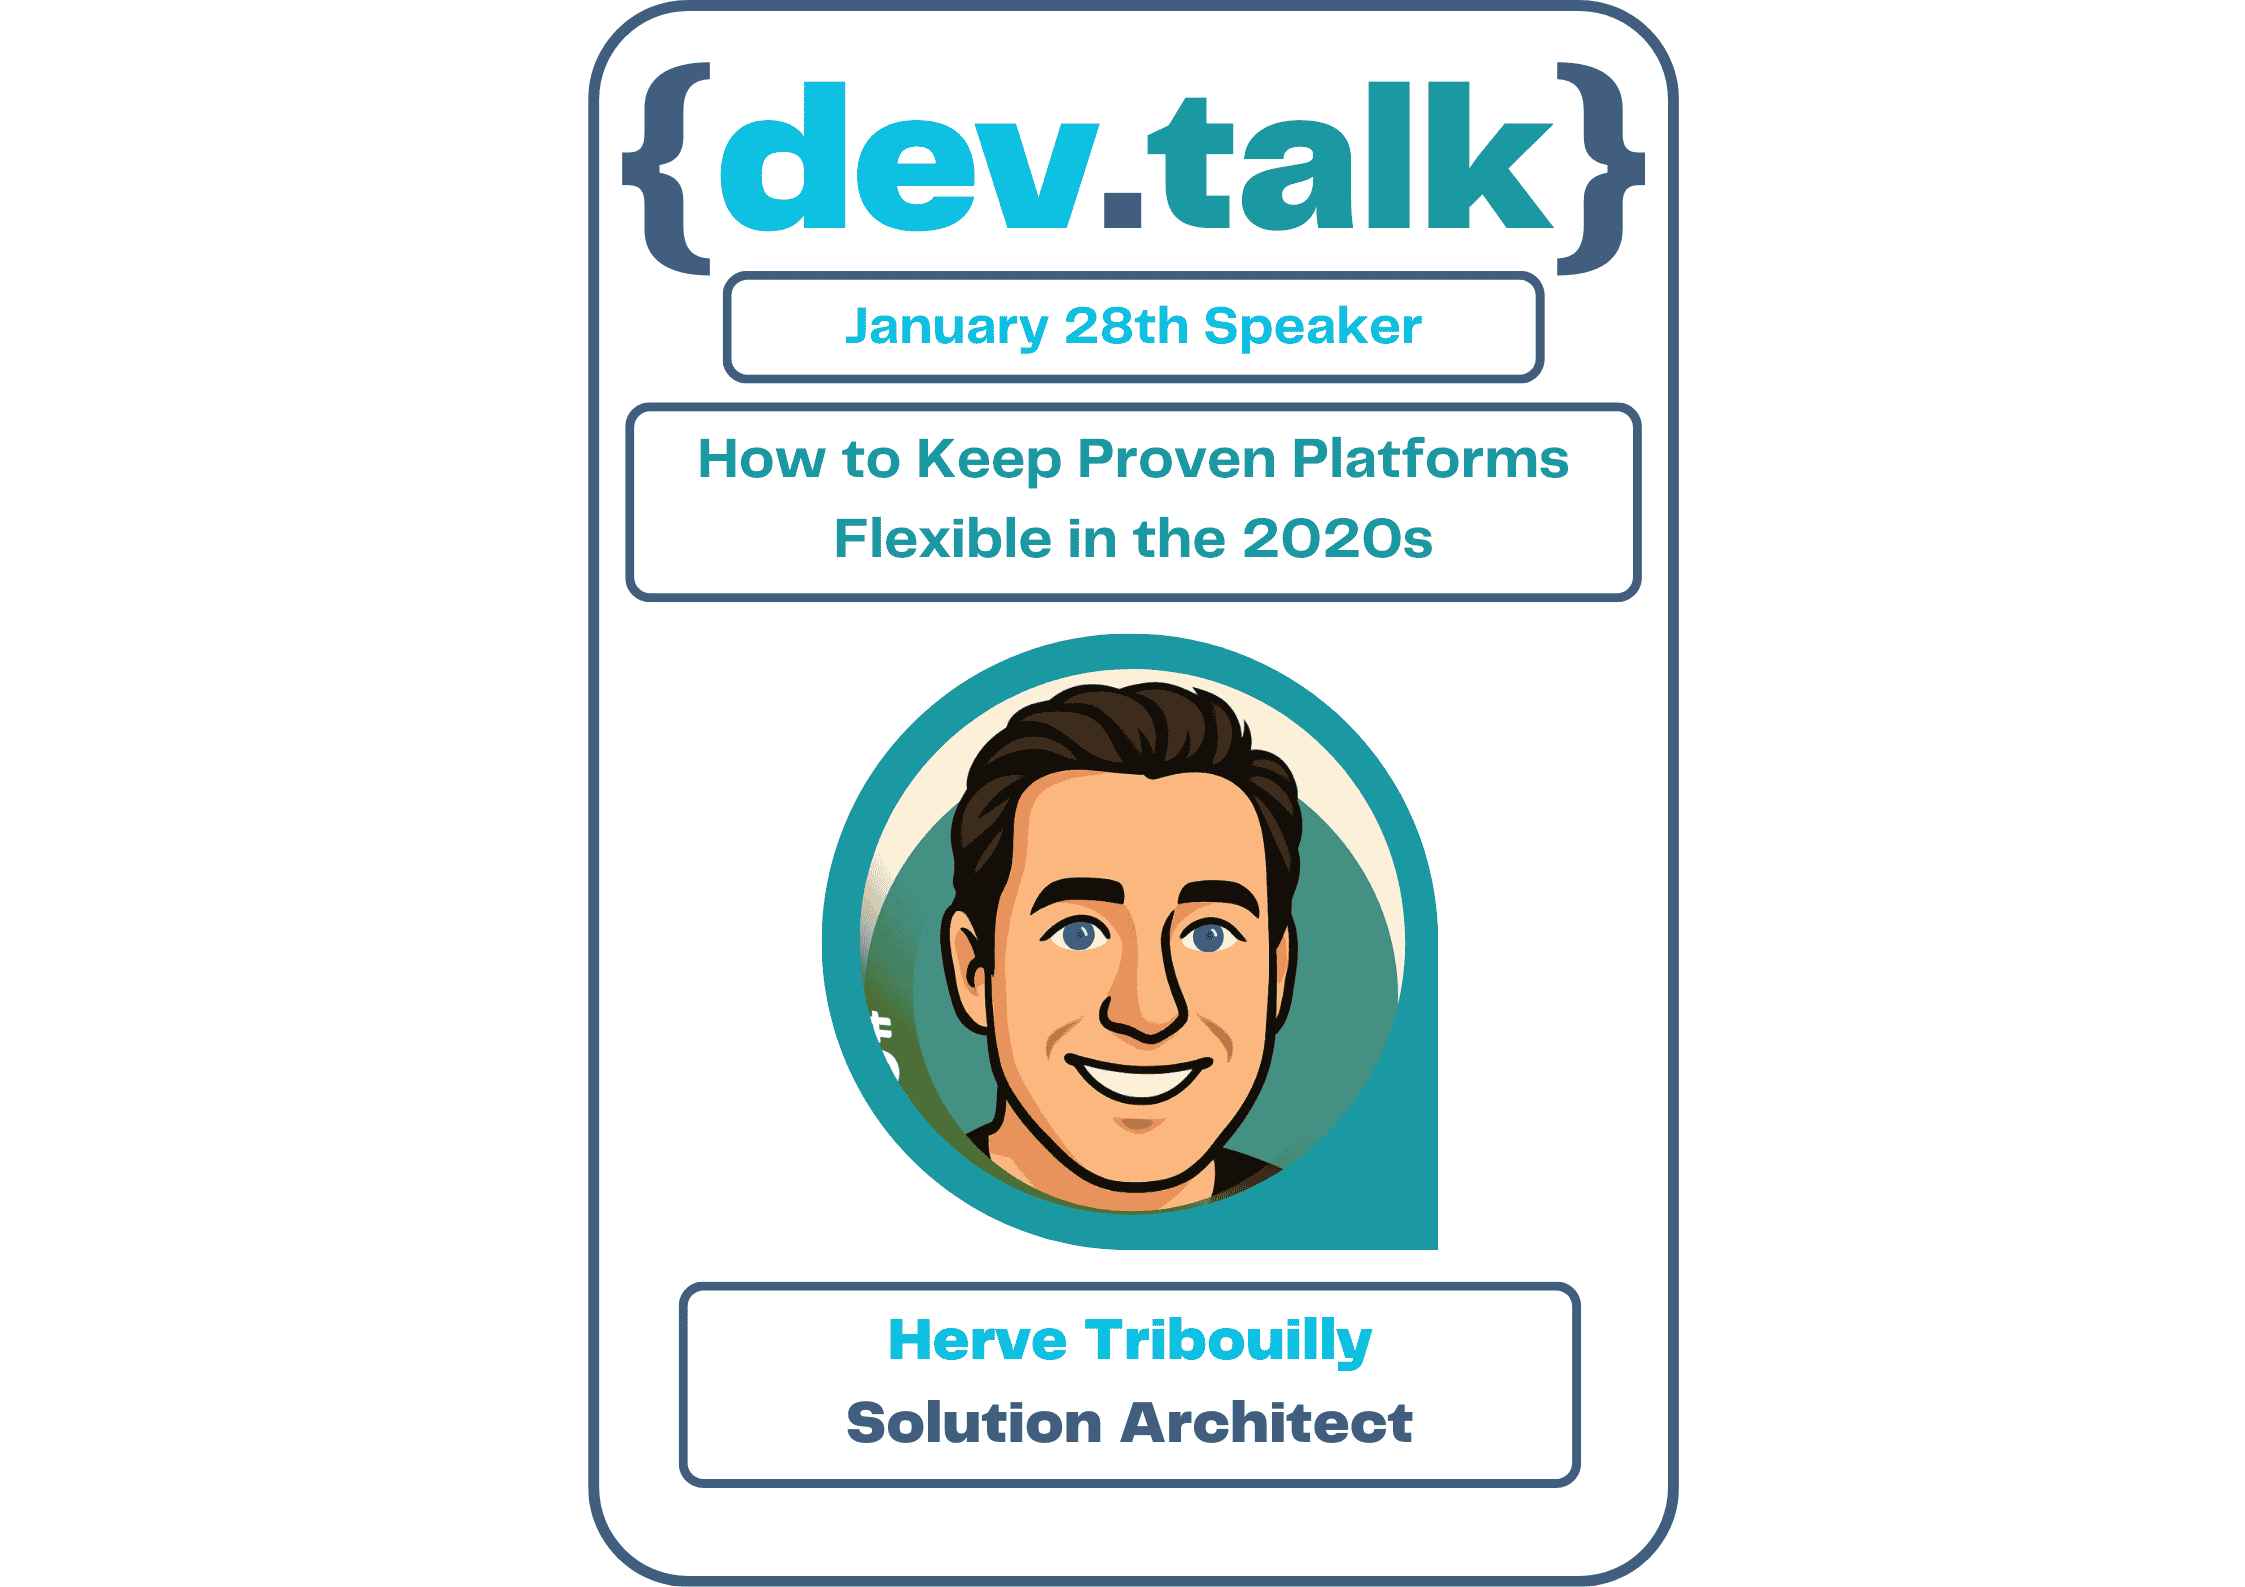
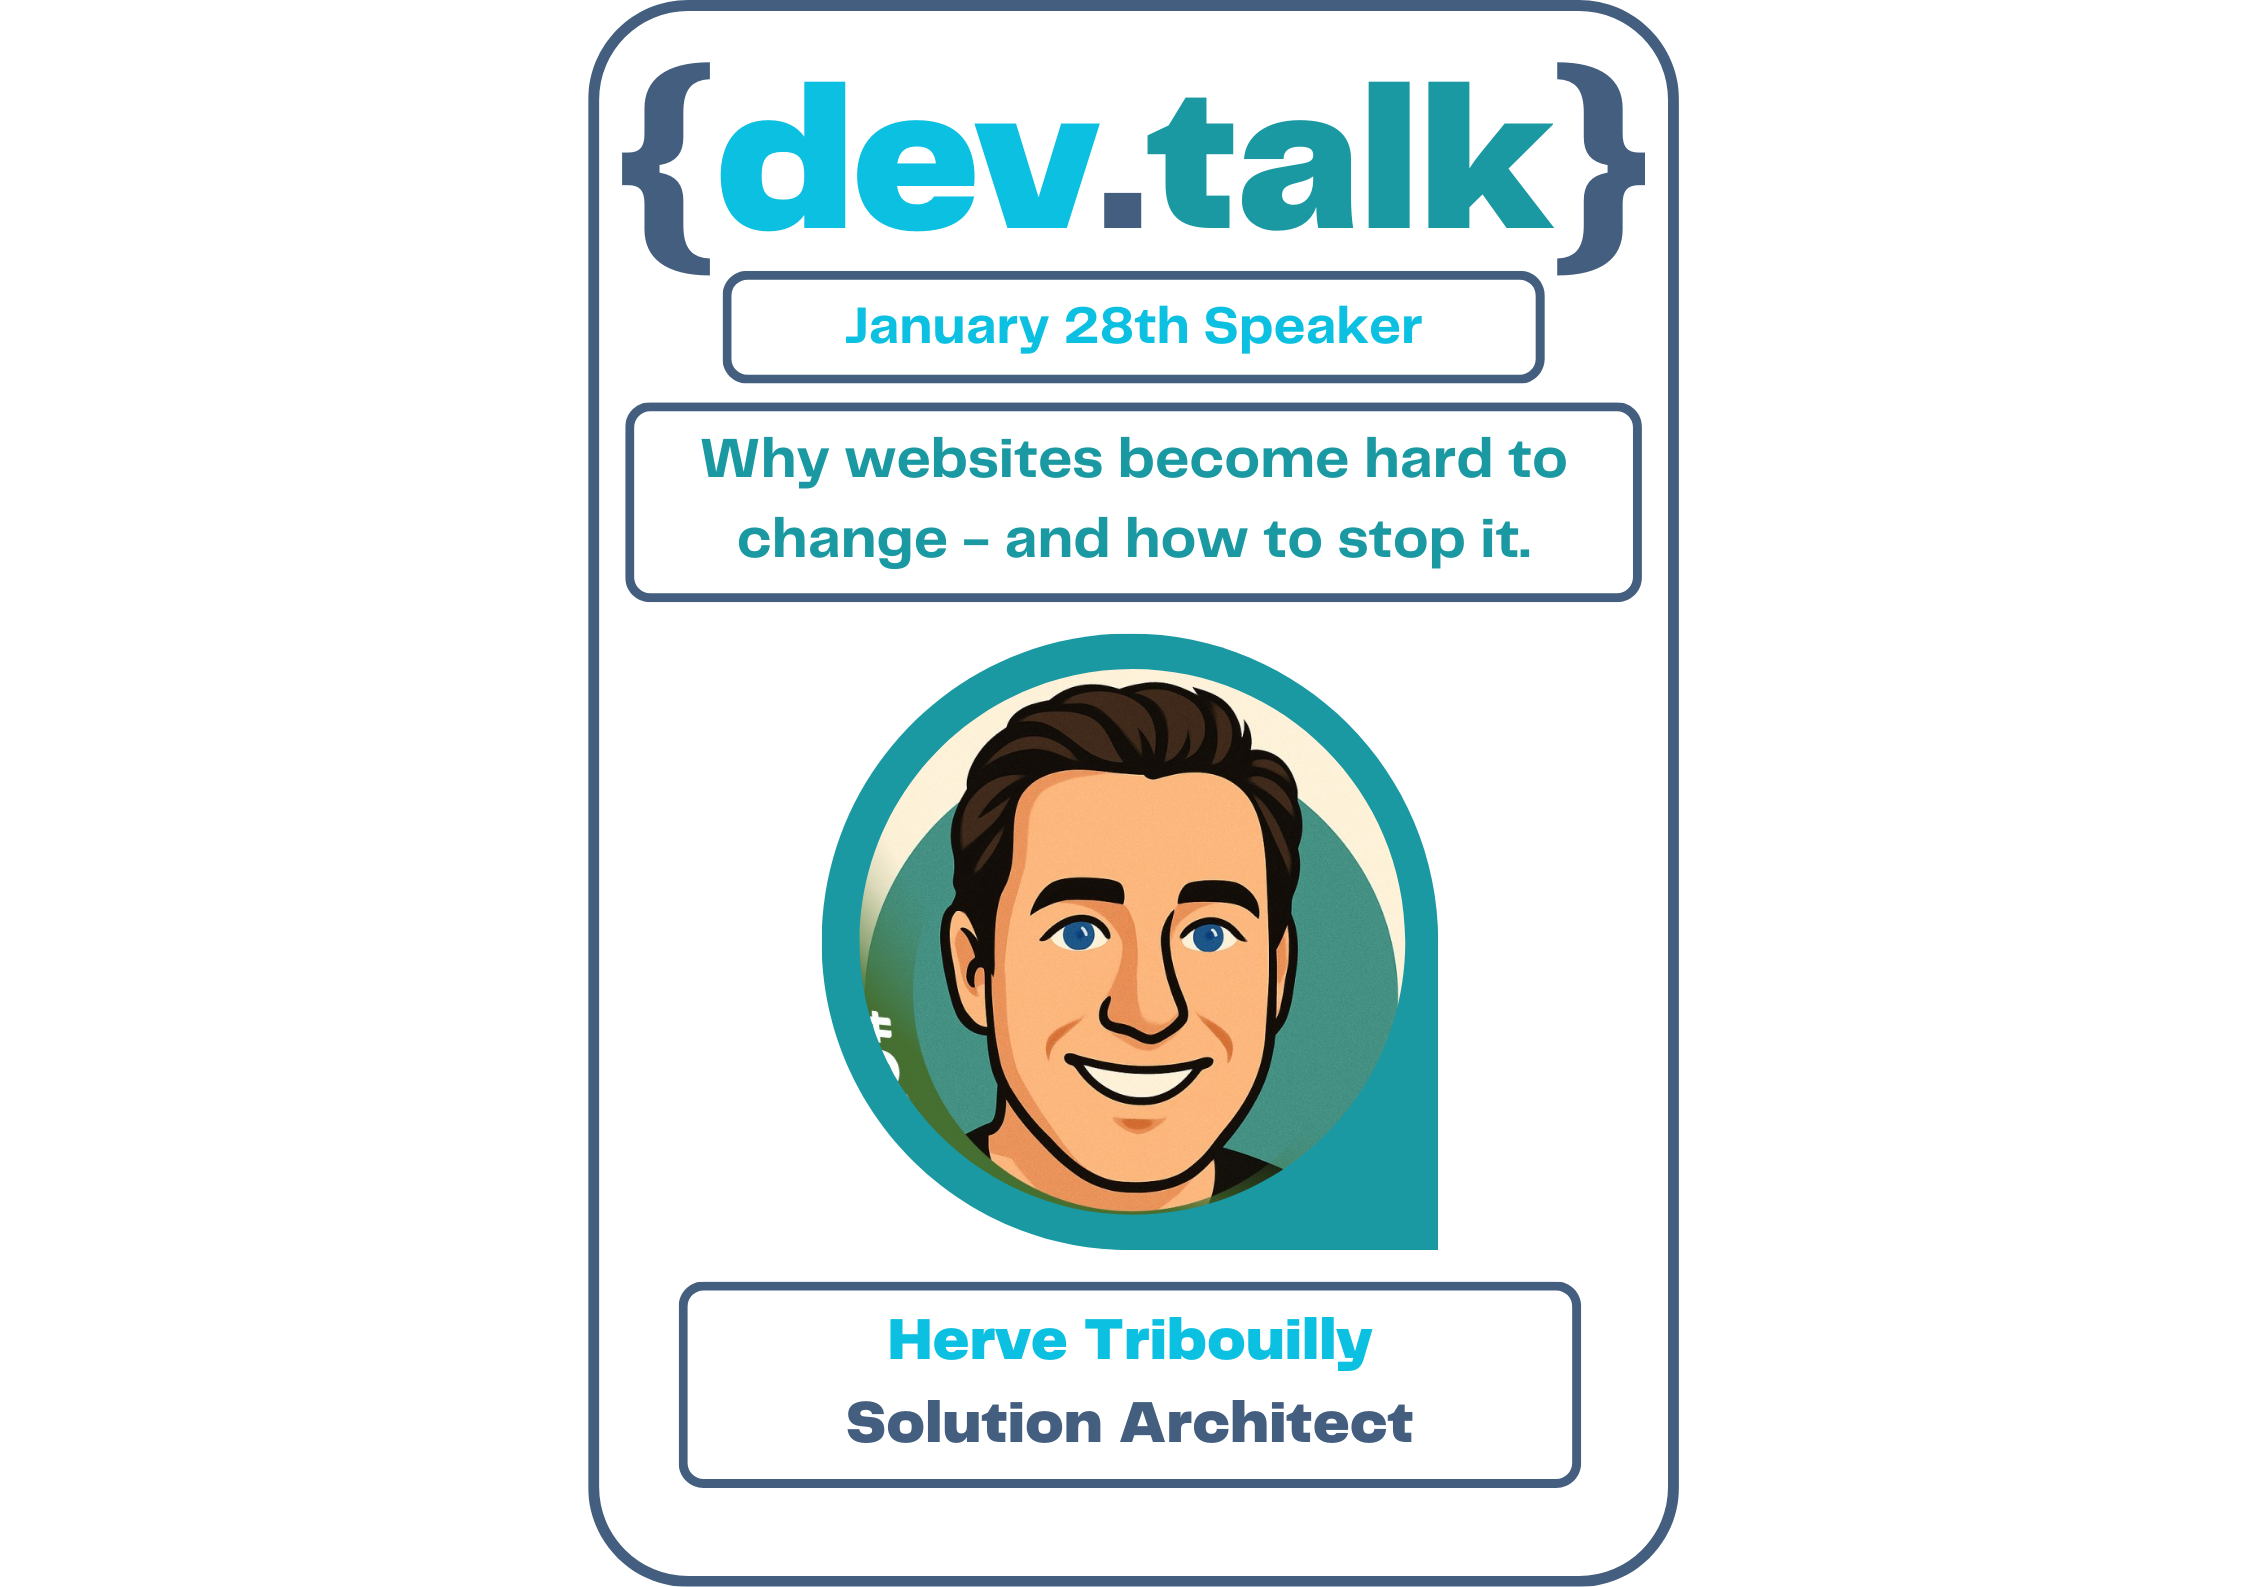
Update herve's talk

diff --git a/src/2026-january-location-info.html b/src/2026-january-location-info.html
@@ -33,6 +33,24 @@
         <main class="main-content">
             <a href="https://devdottalk.uk/"><img alt="The devdottalk logo" src="devtalk wide.jpg" loading="lazy"
                     class="center"></a>
+<section style="
+    width: 100%;
+    background-color: #fff0f5;
+    padding: 20px 0;
+    text-align: center;
+    border-bottom: 3px solid rgb(112, 136, 216);
+    margin: 0;
+    box-shadow: 0 2px 4px rgba(0,0,0,0.1);
+">
+    <a href="https://devdottalk.uk/tickets" style="
+        color: rgb(112, 136, 216);
+        font-size: 18px;
+        font-weight: bold;
+        text-decoration: none;
+        padding: 10px 20px;
+        display: inline-block;
+    ">Get your Free ticket here.</a>
+</section>                    
             <h1>Welcome to the January 2026 {dev.talk} Meetup!</h1>
             <h2>The One Where We Don't Break the Platform (or Believe the Hype)</h2>
             <p>Hi there,</p>
@@ -92,7 +110,7 @@
             <h3>Herve Tribouilly</h3>
             <p><em>Solution Architect</em></p>
 
-            <h4>How to Keep Proven Platforms Flexible in the 2020s</h4>
+            <h4>Why websites become hard to change - and how to stop it.</h4>
             <p>
                 Many teams struggle to evolve their platforms without increasing cost, complexity, or upgrade risk.
                 Monolithic systems can become hard to change, while micro-services are often too heavy for most
